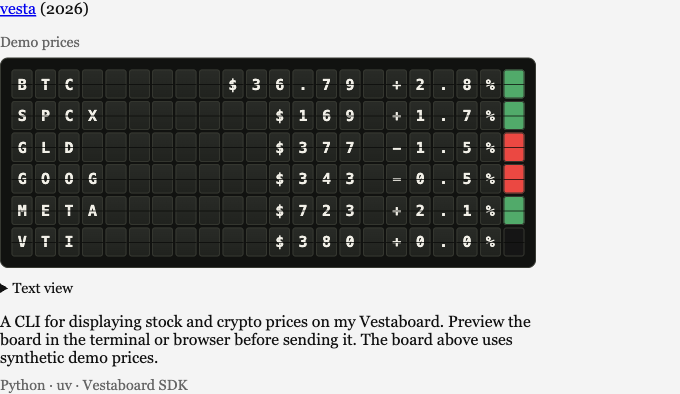
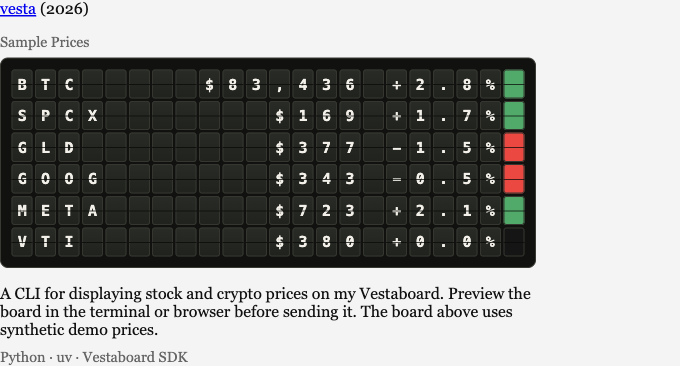
Simplify the Vesta sample preview and correct Bitcoin's price

diff --git a/docs/vesta/README.md b/docs/vesta/README.md
@@ -3,12 +3,14 @@
 ## Demo shipped now
 
 `site/content/projects/vesta.md` adds Vesta to the projects collection.
-`VestaPreview.astro` embeds the board cells and collapsible text view from
+`VestaPreview.astro` embeds only the board cells from
 `site/generated/vesta-demo.html`, the actual output of Vesta's offline demo.
 It adapts the surrounding styles to xyz's project column and theme, without
-adding a browser script, fetching prices, or requiring any API key.
+adding a browser script, fetching prices, or requiring any API key. The
+projects page labels the rendering "Sample Prices" and omits the CLI's text view.
 
-The checked-in HTML was generated from Vesta master at `a2a7c30`:
+The checked-in HTML was generated from Vesta at `0bb2acc`, with
+Bitcoin's fixed sample price of $83,436:
 
 ```bash
 # Run from an updated Vesta checkout with its CLI installed.
@@ -60,10 +62,10 @@ means 288 refreshes and up to 1,728 symbol credits per day; batching can reduce
 HTTP requests without reducing symbol credits. The free 800-credit daily
 Twelve Data allowance is insufficient for that schedule.
 
-Use an explicit instrument map. In the current demo, `BTC` is the stock/ETF
-symbol shown near $36.79, not a Bitcoin quote. If we want Bitcoin instead, map
-it to the provider's BTC/USD pair and label it distinctly. Keep provider IDs,
-display names, asset types, currencies, and exchanges separate.
+Use an explicit instrument map. The demo's `BTC` label represents Bitcoin,
+with a fixed sample price of $83,436. Map it to the provider's BTC/USD pair,
+not a stock/ETF ticker named BTC. Keep provider IDs, display names, asset
+types, currencies, and exchanges separate.
 
 For stocks and ETFs, display the most recent eligible trade/price and change
 relative to the previous regular-session close; keep both values from the
@@ -136,12 +138,14 @@ sends to the physical board. The CLI keeps using the Vestaboard SDK.
 `npm run check` and `npm run build` succeeded. The checker reports one existing
 unused-variable hint in `404.astro`, with no errors or warnings.
 Browser checks confirmed all 132 cells, the six expected color indicators,
-the collapsible text view, and no horizontal page overflow at a 390px viewport.
+the "Sample Prices" caption, no text view, and no horizontal page overflow
+at a 390px viewport. Bitcoin's $83,436 price fits the eight-cell price field
+within the 22-cell row, including its percentage and color indicator.
 The demo was checked in light and dark themes. No market-data API or Vestaboard
 send was needed. Automated tests and CI configuration were not added.
 
 ![Desktop project entry](desktop.png)
 
-![Mobile project entry with text view](mobile.png)
+![Mobile project entry](mobile.png)
 
 ![Mobile dark theme](mobile-dark.png)
